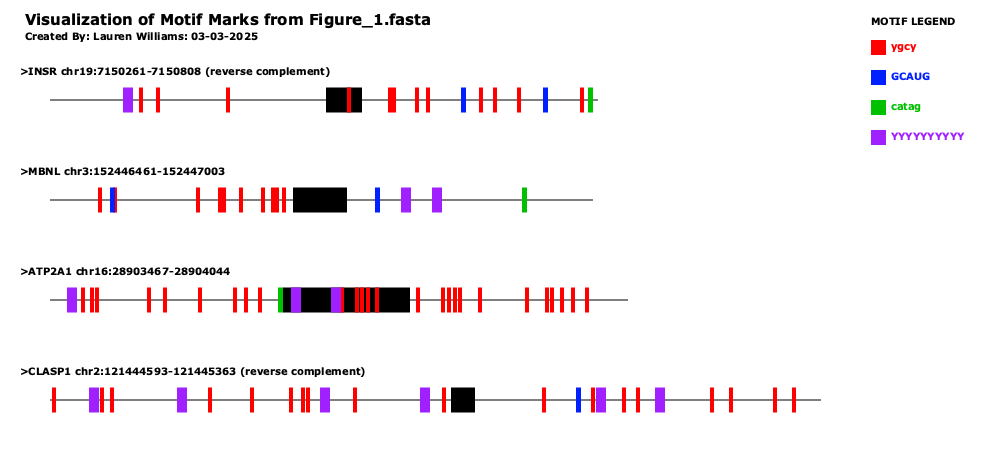
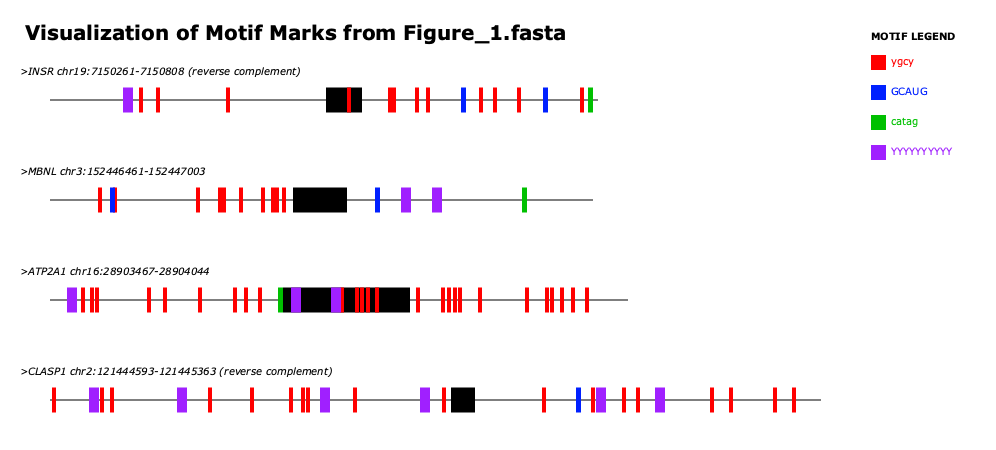
adjustments

diff --git a/motif-mark-oop.py b/motif-mark-oop.py
@@ -61,7 +61,7 @@ class Gene:
         context.stroke()
 
         #write header
-        context.select_font_face("Verdana", cairo.FONT_SLANT_NORMAL, cairo.FONT_WEIGHT_BOLD)
+        context.select_font_face("Verdana", cairo.FONT_WEIGHT_BOLD)
         context.set_font_size(10)
         context.move_to(GENE_GROUP_HEIGHT/5, y - VALUE_TO_CENTER/2)
         context.show_text(self.gene_name)
@@ -92,7 +92,6 @@ class Motif:
     def draw(self, context):
         context.set_source_rgb(self.color[0], self.color[1], self.color[2]) 
         y = (GENE_GROUP_HEIGHT * self.gene_num) + VALUE_TO_CENTER/2
-        print(self.start)
         context.rectangle(self.start + VALUE_TO_CENTER, y + VALUE_TO_CENTER*1.25, self.end - self.start, FEATURE_HEIGHT)        #(x0,y0,x1,y1) (moves left to right, moves up and down, width of box, height of box)
         context.fill()
 
@@ -115,7 +114,7 @@ def find_exon(sequence: str) -> tuple:
     return (start, end)
 
 def possible_motifs(motif: str) -> str:
-    '''DOC STRING'''
+    '''Takes a motif, replaces ambigous nucleotides with regex expressions of possible nucleotides, and returns that regex expression.'''
     motif = motif.upper()
 
     for ambiguous_nucleotide, possible_nucleotides in IUPAC.items(): 
@@ -153,7 +152,6 @@ with open(m, "r") as mr:
             break
 
         motif_dict[line] = possible_motifs(line)
-
 
 ################################
 # Create Initial Image Surface #
@@ -206,28 +204,30 @@ context.set_source_rgba(0,0,0) #black
 context.select_font_face("Verdana", cairo.FONT_SLANT_NORMAL, cairo.FONT_WEIGHT_BOLD)
 
 #write title
-context.set_font_size(15)
-context.move_to(25, 25)
-context.show_text("Visualization of Motif Marks from " + args.f)
-context.set_font_size(10)
+context.set_font_size(20)
 context.move_to(25, 40)
-context.show_text("Created By: Lauren Williams: 03-03-2025")
+context.show_text("Visualization of Motif Marks from " + args.f)
 
 #write legend 
 x = width - 125
 context.set_font_size(10)
-context.move_to(x, 25)
+context.move_to(x, 40)
 context.show_text("MOTIF LEGEND")
 
 #draw boxes of colors and write out each motif name 
 for i, motif in enumerate(motif_dict):
+    #set font & color
+    context.select_font_face("Verdana", cairo.FONT_SLANT_NORMAL)
     context.set_source_rgb(COLOR_LIST[i][0], COLOR_LIST[i][1], COLOR_LIST[i][2])
+    
+    #make boxes 
     y = (i+1)*30 
-    context.rectangle(x, y + 10, 15, 15)        #(x0,y0,x1,y1) (moves left to right, moves up and down, width of box, height of box)
+    context.rectangle(x, y + 25, 15, 15)        #(x0,y0,x1,y1) (moves left to right, moves up and down, width of box, height of box)
     context.fill()
-
+    
+    #write motif names next to boxes
     context.set_font_size(10)
-    context.move_to(x + 20, y + 20)
+    context.move_to(x + 20, y + 35)
     context.show_text(motif)
 
 ###############
